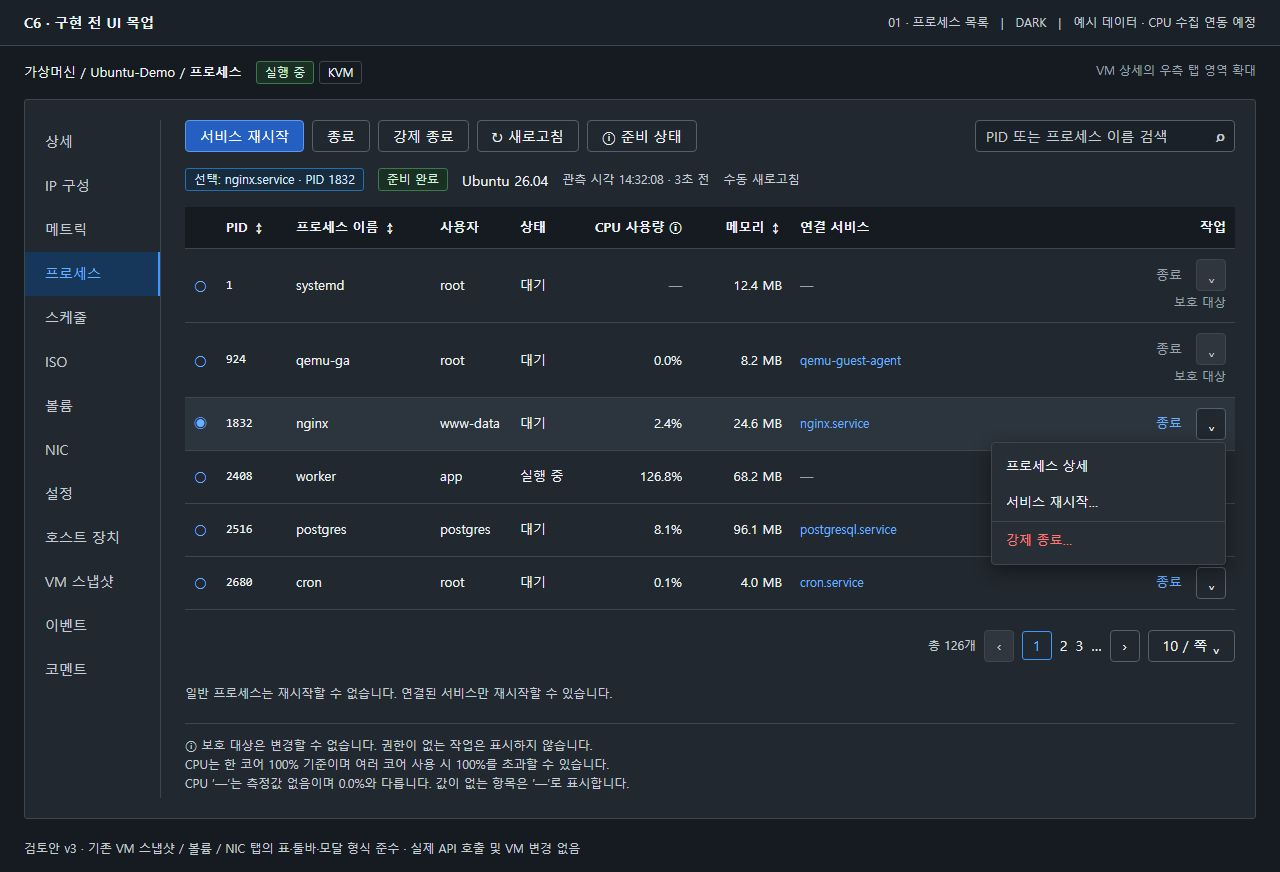
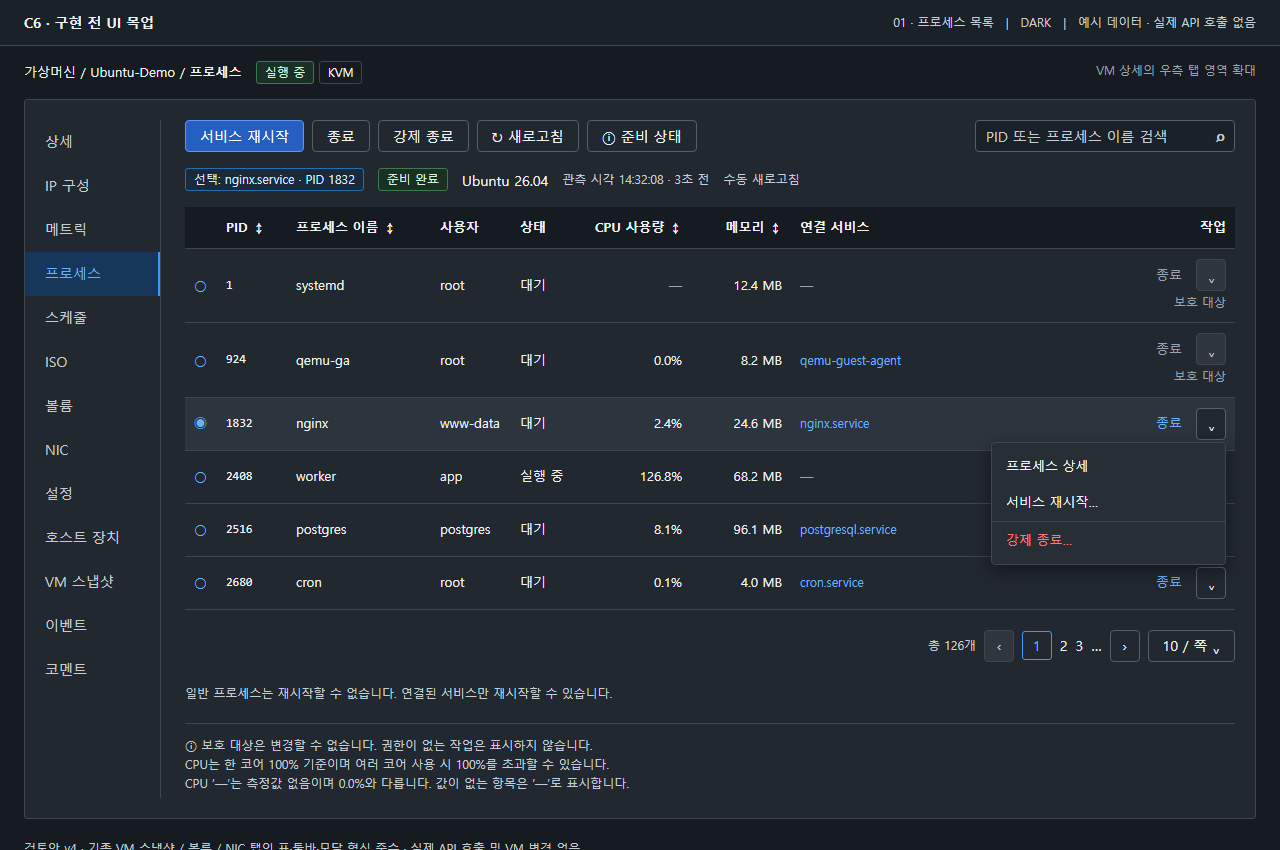
docs: CPU 정렬과 미측정 구분 목업 갱신

diff --git a/docs/design/vm-process-mockup/index.html b/docs/design/vm-process-mockup/index.html
@@ -21,7 +21,7 @@ under the License.
 *{box-sizing:border-box}::-webkit-scrollbar{display:none}body{margin:0;width:1280px;min-height:850px;background:var(--ui-bg-page);color:var(--ui-text-primary);font:14px/1.6 "Malgun Gothic","Noto Sans KR",Arial,sans-serif}button,input,select{font:inherit}button{cursor:pointer;border:1px solid var(--ui-border-strong);border-radius:4px;background:var(--ui-bg-surface);color:var(--ui-text-primary);height:32px;padding:0 14px;white-space:nowrap}button.primary{background:#0969da;border-color:#0969da;color:#fff}button.danger{background:#c62836;border-color:#c62836;color:white}.dark-mode button.primary{background:#245fc1;border-color:#6098f0}.dark-mode button.danger{background:#a62738;border-color:#ff8d99}button:disabled{cursor:not-allowed;background:var(--ui-bg-disabled);color:var(--ui-text-secondary);border-color:var(--ui-border)}.dark-mode button.primary:disabled,.dark-mode button.danger:disabled{background:var(--ui-bg-disabled);color:var(--ui-text-secondary);border-color:var(--ui-border)}button.link{border:0;color:var(--ui-link);padding:0 6px;background:transparent}button.link:disabled{color:var(--ui-text-muted)}button.icon{width:30px;padding:0}button:focus-visible,a:focus-visible{outline:2px solid var(--ui-focus);outline-offset:2px}a{color:var(--ui-link);text-decoration:none}.small{font-size:12px}.muted{color:var(--ui-text-muted)}.secondary{color:var(--ui-text-secondary)}.mono{font-family:Consolas,monospace;font-size:12px}.topnote{height:46px;background:var(--ui-bg-navigation);border-bottom:1px solid var(--ui-border);display:flex;align-items:center;justify-content:space-between;padding:0 24px;font-size:12px;color:var(--ui-text-secondary)}.topnote strong{font-size:14px;color:var(--ui-text-primary)}.breadcrumb{padding:15px 24px;font-size:13px;display:flex;justify-content:space-between}.sheet{position:relative;width:1232px;min-height:720px;margin:0 24px 20px;background:var(--ui-bg-surface);border:1px solid var(--ui-border);border-radius:3px;display:flex;padding:20px 20px 20px 0}.tabs{width:136px;flex:none;border-right:1px solid var(--ui-border);padding:0}.tabs div{height:44px;padding:10px 20px;color:var(--ui-text-secondary)}.tabs .active{color:var(--ui-link);background:var(--ui-bg-selected);border-right:2px solid var(--ui-focus)}.content{padding-left:24px;flex:1;min-width:0}.toolbar{display:flex;gap:8px;align-items:center;margin-bottom:16px}.search{margin-left:auto;height:32px;width:260px;border:1px solid var(--ui-border-strong);background:var(--ui-bg-input);color:var(--ui-text-secondary);border-radius:4px;display:flex;align-items:center;padding:0 10px;justify-content:space-between}.search span{color:var(--ui-text-secondary)}.statusline{display:flex;gap:14px;align-items:center;margin:0 0 16px;flex-wrap:wrap}.tag{display:inline-block;border:1px solid var(--ui-border);border-radius:3px;padding:1px 8px;font-size:12px;white-space:nowrap}.tag.ok{color:var(--ui-success-text);background:var(--ui-success-bg);border-color:var(--ui-success-border)}.tag.warn{color:var(--ui-warning-text);background:var(--ui-warning-bg);border-color:var(--ui-warning-border)}.tag.info{color:var(--ui-info-text);background:var(--ui-info-bg);border-color:var(--ui-info-border)}.alert{display:flex;gap:10px;padding:11px 14px;border:1px solid var(--ui-info-border);border-radius:4px;background:var(--ui-info-bg);color:var(--ui-info-text);margin-bottom:16px}.alert.warning{background:var(--ui-warning-bg);border-color:var(--ui-warning-border);color:var(--ui-warning-text)}.alert.error{background:var(--ui-error-bg);border-color:var(--ui-error-border);color:var(--ui-error-text)}.alert.success{background:var(--ui-success-bg);border-color:var(--ui-success-border);color:var(--ui-success-text)}.alert .symbol{font-size:17px;font-weight:bold;line-height:1.5}.alert strong{display:block;font-weight:600}.alert .tail{margin-left:auto;align-self:center}.alert p{margin:4px 0 0;font-size:13px}table{width:100%;border-collapse:collapse;font-size:13px}th{text-align:left;background:var(--ui-bg-page);font-weight:600;white-space:nowrap}th,td{padding:10px 9px;border-bottom:1px solid var(--ui-border);vertical-align:middle}td.name{font-weight:500}.selected td{background:var(--ui-bg-hover)}.sub{display:block;font-weight:400;font-size:12px;color:var(--ui-text-muted);margin-top:2px}.row-actions{position:relative;display:flex;gap:8px;align-items:center;justify-content:flex-end}.paging{display:flex;gap:8px;align-items:center;justify-content:flex-end;margin-top:20px}.paging .page{padding:2px 10px;border:1px solid var(--ui-focus);color:var(--ui-link);border-radius:3px}.footnote{margin-top:22px;color:var(--ui-text-secondary);font-size:12px}.legend{border-top:1px solid var(--ui-border);padding-top:12px;margin-top:20px;font-size:12px;color:var(--ui-text-secondary)}.menu{position:absolute;right:0;top:34px;text-align:left;width:235px;padding:5px 0;background:var(--ui-bg-elevated);border:1px solid var(--ui-border);border-radius:4px;box-shadow:0 6px 18px var(--ui-shadow);z-index:2}.menu div{padding:8px 14px}.menu .destructive{color:var(--ui-error-icon);border-top:1px solid var(--ui-border)}.menu .disabled{color:var(--ui-text-secondary);background:var(--ui-bg-disabled);font-size:13px}.menu small{display:block;font-size:12px}.shade{position:absolute;inset:46px 0 0;background:rgba(0,0,0,.48);display:flex;align-items:flex-start;justify-content:center;padding-top:75px;z-index:5}.modal{width:560px;border:1px solid var(--ui-border-strong);background:var(--ui-bg-elevated);border-radius:4px;box-shadow:0 16px 48px rgba(0,0,0,.25);overflow:hidden}.modal h2{font-size:16px;margin:0;padding:16px 24px;border-bottom:1px solid var(--ui-border);display:flex;justify-content:space-between}.modal h2 span{color:var(--ui-text-secondary);font-weight:400}.modal .body{padding:20px 24px}.description{border:1px solid var(--ui-border);margin-bottom:16px;border-radius:3px;font-size:13px}.description>div{display:grid;grid-template-columns:125px 1fr;border-bottom:1px solid var(--ui-border)}.description>div:last-child{border:0}.description dt{background:var(--ui-bg-page);padding:8px 12px;color:var(--ui-text-primary);border-right:1px solid var(--ui-border)}.description dd{margin:0;padding:8px 12px;background:var(--ui-bg-surface);color:var(--ui-text-secondary);overflow-wrap:anywhere}.modal .footer{border-top:1px solid var(--ui-border);padding:12px 20px;display:flex;justify-content:flex-end;gap:8px}.check{display:flex;gap:8px;align-items:flex-start;font-size:13px}.check span:first-child{color:var(--ui-link);font-size:17px;line-height:1.3}.empty{padding:65px 40px;text-align:center;border:1px solid var(--ui-border);background:var(--ui-bg-page);margin-top:18px}.empty h3{font-size:16px;margin:10px 0;color:var(--ui-text-primary)}.empty p{color:var(--ui-text-secondary);font-size:13px}.rpc{margin:14px 0;border:1px solid var(--ui-border)}.rpc td{padding:7px 12px}.steps{margin:20px 0;padding-left:24px;color:var(--ui-text-secondary)}.steps li{margin:10px 0}.preview-controls{padding:12px 24px;border-top:1px solid var(--ui-border)}.preview-controls a{display:inline-block;margin:4px 14px 4px 0}.capture .preview-controls{display:none}.footer-note{padding:0 24px 14px;color:var(--ui-text-secondary);font-size:12px}.state-title{margin:0 0 15px;font-size:15px}.operation{border:1px solid var(--ui-border);padding:14px;margin-bottom:18px;border-radius:4px}.operation-head{display:flex;align-items:center;justify-content:space-between;margin-bottom:10px}.service-chip{font-size:12px;color:var(--ui-link)}
 </style></head><body><div id="app"></div><script>
 const q=new URLSearchParams(location.search),state=q.get('state')||'list',dark=q.get('theme')==='dark';document.documentElement.classList.toggle('dark-mode',dark);document.body.classList.toggle('capture',q.has('capture'));
-const labels={list:'01 · 프로세스 목록',terminate:'02 · 정상 종료 확인',kill:'03 · 강제 종료 확인',restart:'04 · 서비스 재시작 확인',tools:'05 · Tools 설치 안내',disabled:'06 · Global 비활성',unknown:'07 · 결과 미확정',stale:'08 · 오래된 목록',windows:'09 · Windows 지원 범위'};
+const labels={list:'01 · 프로세스 목록',terminate:'02 · 정상 종료 확인',kill:'03 · 강제 종료 확인',restart:'04 · 서비스 재시작 확인',tools:'05 · Tools 설치 안내',disabled:'06 · Global 비활성',unknown:'07 · 결과 미확정',stale:'08 · 오래된 목록',windows:'09 · Windows 지원 범위','cpu-sort':'10 · CPU 높은 순 정렬'};
 const btn=(text,cls='',disabled=false)=>`<button class="${cls}" ${disabled?'disabled':''}>${text}</button>`;
 const alert=(title,desc='',type='',action='')=>`<div class="alert ${type}"><span class="symbol">${type==='warning'?'⚠':type==='error'?'!':'ⓘ'}</span><div><strong>${title}</strong>${desc?'<p>'+desc+'</p>':''}</div>${action?'<div class="tail">'+action+'</div>':''}</div>`;
 const desc=rows=>'<dl class="description">'+rows.map(([k,v])=>`<div><dt>${k}</dt><dd>${v}</dd></div>`).join('')+'</dl>';
@@ -29,7 +29,11 @@ const iswin=state==='windows';const expired=state==='stale',busy=state==='unknow
 const nav=['상세','IP 구성','메트릭','프로세스','스케줄','ISO','볼륨','NIC','설정','호스트 장치','VM 스냅샷','이벤트','코멘트'];
 function inventory(){
  const rows=iswin?[[4,'System','SYSTEM','실행 중','—','—','보호 대상'],[864,'svchost.exe','SYSTEM','실행 중','42.6 MB','W32Time','Windows 미지원'],[2812,'DemoWorker.exe','demo','실행 중','18.4 MB','—','Windows 미지원'],[3940,'DemoService.exe','SYSTEM','실행 중','26.8 MB','DemoService','Windows 미지원']]:[[1,'systemd','root','대기','12.4 MB','—','보호 대상'],[924,'qemu-ga','root','대기','8.2 MB','qemu-guest-agent','보호 대상'],[1832,'nginx','www-data','대기','24.6 MB','nginx.service',''],[2408,'worker','app','실행 중','68.2 MB','—',''],[2516,'postgres','postgres','대기','96.1 MB','postgresql.service',''],[2680,'cron','root','대기','4.0 MB','cron.service','']];
- return `<table><thead><tr><th style="width:32px" aria-label="선택"></th><th style="width:70px">PID ↕</th><th style="width:144px">프로세스 이름 ↕</th><th style="width:80px">사용자</th><th style="width:75px">상태</th><th style="width:105px;text-align:right" title="한 코어 100% 기준. 여러 코어 사용 시 100%를 초과할 수 있습니다.">CPU 사용량 ⓘ</th><th style="width:100px;text-align:right">메모리 ↕</th><th style="width:160px">연결 서비스</th><th style="text-align:right">작업</th></tr></thead><tbody>`+rows.map((r,i)=>`<tr class="${i===selectedIndex?'selected':''}"><td style="color:var(--ui-link)">${i===selectedIndex?'◉':'○'}</td><td class="mono">${r[0]}</td><td class="name">${r[1]}</td><td>${r[2]}</td><td>${r[3]}</td><td style="text-align:right;font-variant-numeric:tabular-nums">${(iswin?[null,0,38.4,1.2]:[null,0,2.4,126.8,8.1,0.1])[i]===null?'<span class="muted">—</span>':(iswin?[null,0,38.4,1.2]:[null,0,2.4,126.8,8.1,0.1])[i].toFixed(1)+'%'}</td><td style="text-align:right">${r[4]}</td><td><span class="${r[5]==='—'?'muted':'service-chip'}">${r[5]}</span></td><td><div class="row-actions">${btn('종료','link',!!r[6]||expired||busy)}${btn('⌄','icon',r[6]==='보호 대상'||expired||busy)}${i===2&&['list','windows'].includes(state)?`<div class="menu"><div>프로세스 상세</div>${iswin?'<div class="disabled">서비스 재시작<small>연결된 서비스가 없는 프로세스입니다.</small></div>':'<div>서비스 재시작…</div>'}<div class="destructive">강제 종료…</div></div>`:''}</div>${r[6]?'<span class="sub" style="text-align:right">'+r[6]+'</span>':''}</td></tr>`).join('')+'</tbody></table>'+`<div class="paging"><span class="small secondary">총 ${iswin?46:126}개</span>${btn('‹','icon',true)}<span class="page">1</span><span>2</span><span>3</span><span>…</span>${btn('›','icon')}${btn('10 / 쪽 ⌄')}</div>`;
+ const cpuValues=iswin?[null,0,38.4,1.2]:[null,0,2.4,126.8,8.1,0.1];
+ const paired=rows.map((row,index)=>({row,cpu:cpuValues[index]}));
+ if(state==='cpu-sort')paired.sort((a,b)=>a.cpu===null?1:b.cpu===null?-1:b.cpu-a.cpu||a.row[0]-b.row[0]);
+ const sortedRows=paired.map(item=>item.row),sortedCpu=paired.map(item=>item.cpu);
+ return `<table><thead><tr><th style="width:32px" aria-label="선택"></th><th style="width:70px">PID ↕</th><th style="width:144px">프로세스 이름 ↕</th><th style="width:80px">사용자</th><th style="width:75px">상태</th><th style="width:105px;text-align:right" title="한 코어 100% 기준. 여러 코어 사용 시 100%를 초과할 수 있습니다.">${state==='cpu-sort'?'CPU 사용량 ▼':'CPU 사용량 ↕'}</th><th style="width:100px;text-align:right">메모리 ↕</th><th style="width:160px">연결 서비스</th><th style="text-align:right">작업</th></tr></thead><tbody>`+sortedRows.map((r,i)=>`<tr class="${i===selectedIndex?'selected':''}"><td style="color:var(--ui-link)">${i===selectedIndex?'◉':'○'}</td><td class="mono">${r[0]}</td><td class="name">${r[1]}</td><td>${r[2]}</td><td>${r[3]}</td><td style="text-align:right;font-variant-numeric:tabular-nums">${sortedCpu[i]===null?'<span class="muted">—</span>':sortedCpu[i].toFixed(1)+'%'}</td><td style="text-align:right">${r[4]}</td><td><span class="${r[5]==='—'?'muted':'service-chip'}">${r[5]}</span></td><td><div class="row-actions">${btn('종료','link',!!r[6]||expired||busy)}${btn('⌄','icon',r[6]==='보호 대상'||expired||busy)}${i===2&&['list','windows'].includes(state)?`<div class="menu"><div>프로세스 상세</div>${iswin?'<div class="disabled">서비스 재시작<small>연결된 서비스가 없는 프로세스입니다.</small></div>':'<div>서비스 재시작…</div>'}<div class="destructive">강제 종료…</div></div>`:''}</div>${r[6]?'<span class="sub" style="text-align:right">'+r[6]+'</span>':''}</td></tr>`).join('')+'</tbody></table>'+`<div class="paging"><span class="small secondary">총 ${iswin?46:126}개</span>${btn('‹','icon',true)}<span class="page">1</span><span>2</span><span>3</span><span>…</span>${btn('›','icon')}${btn('10 / 쪽 ⌄')}</div>`;
 }
 function content(){
  if(disabled)return '<h3 class="state-title">프로세스 관리</h3>'+btn('서비스 재시작','primary',true)+'<p class="small secondary">기능 활성화 및 대상 선택 후 사용할 수 있습니다.</p>'+alert('프로세스 관리 기능이 비활성화되어 있습니다.','관리자가 Global 설정에서 명시적으로 활성화한 후 사용할 수 있습니다.')+desc([['Global 설정','<span class="mono">vm.process.management.enabled</span>'],['현재 값','false · 기본값'],['사용 범위','활성화 후에도 VM 접근 권한과 작업별 권한을 확인합니다.']])+btn('Global 설정 열기')+'<span class="small secondary" style="margin-left:12px">관리자에게만 표시</span><div class="empty"><div style="font-size:30px">⊘</div><h3>활성화 전에는 프로세스를 조회하지 않습니다.</h3><p>VM 내부 조회와 변경 요청이 모두 차단됩니다.</p></div>';
@@ -37,6 +41,7 @@ function content(){
  let out=`<div class="toolbar">${btn(iswin||selectedIndex===3?'강제 종료':'서비스 재시작','primary',busy||expired)}${!iswin?btn('종료','',busy||expired)+btn(selectedIndex===3?'서비스 재시작':'강제 종료','',busy||expired||selectedIndex===3):''}${btn('↻ 새로고침','',busy)}${btn('ⓘ 준비 상태')}<div class="search"><span>PID 또는 프로세스 이름 검색</span><b>⌕</b></div></div><div class="statusline"><span class="tag info">선택: ${iswin?'DemoWorker.exe · PID 2812':selectedIndex===3?'worker · PID 2408':'nginx.service · PID 1832'}</span><span class="tag ok">준비 완료</span><span>${iswin?'Windows Server 2025':'Ubuntu 26.04'}</span><span class="secondary small">관측 시각 14:32:08 · ${expired?'24초 전':'3초 전'}</span>${expired?'<span class="tag warn">오래된 목록</span>':'<span class="small secondary">수동 새로고침</span>'}</div>`;
  if(expired)out+=alert('목록이 오래되어 변경 작업을 사용할 수 없습니다.','10초가 지난 목록입니다. 새로고침 후 대상을 다시 선택하세요.','warning',btn('새로고침'));
  if(busy)out+=alert('작업 결과를 아직 확인할 수 없습니다.','같은 작업을 다시 실행하지 않습니다. 결과를 확인하는 동안 이 VM의 변경 작업은 잠깁니다.','warning')+`<div class="operation"><div class="operation-head"><strong>worker · PID 2408 · 강제 종료</strong><span class="tag warn">결과 미확정 · UNKNOWN</span></div><div class="small secondary">요청 시각 14:31:52 · 응답을 받지 못함 · 실행되었을 수 있음</div><div class="small secondary" style="margin:8px 0 12px">작업 ID <span class="mono">op-demo-7c42…90e1</span>　<a href="#">자세히 보기</a></div>${btn('↻ 작업 결과 확인')} <span class="small secondary">조회만 수행하며 종료 명령은 재전송하지 않습니다.</span></div>`;
+ if(state==='cpu-sort')out+=alert('CPU 사용량 높은 순으로 정렬했습니다.','미측정 항목은 맨 뒤에 표시하고 같은 값은 PID 순서로 표시합니다.');
  if(iswin)out+=alert('Windows에서는 정상 종료를 지원하지 않습니다.','강제 종료와 연결된 서비스 재시작을 사용할 수 있습니다. 일반 프로세스 자체의 재시작은 지원하지 않습니다.');
  out+=inventory();
  out+=`<p class="footnote">${busy?'작업 완료가 확인되면 목록을 새로고침합니다.':'일반 프로세스는 재시작할 수 없습니다. 연결된 서비스만 재시작할 수 있습니다.'}</p><div class="legend">ⓘ 보호 대상은 변경할 수 없습니다. 권한이 없는 작업은 표시하지 않습니다.<br>CPU는 한 코어 100% 기준이며 여러 코어 사용 시 100%를 초과할 수 있습니다.<br>CPU ‘—’는 측정값 없음이며 0.0%와 다릅니다. 값이 없는 항목은 ‘—’로 표시합니다.</div>`;
@@ -49,5 +54,5 @@ function modal(){if(!['terminate','kill','restart'].includes(state))return '';
  const warning=kill?['저장하지 않은 작업이 손실될 수 있습니다.','프로세스에 정리 시간을 주지 않고 종료합니다.']:restart?['서비스 이용이 일시적으로 중단됩니다.','연결된 서비스만 재시작합니다. 의존 서비스와 활성 연결에도 영향이 있을 수 있습니다.']:['프로세스에 정상 종료를 요청합니다.','종료가 확인되지 않아도 자동으로 강제 종료하지 않습니다.'];
  return `<div class="shade"><section class="modal" role="dialog" aria-label="${title}"><h2>${title}<span>×</span></h2><div class="body">${desc(rows)}${alert(...warning,kill?'error':'warning')}<div class="small secondary" style="margin-bottom:14px">관측 시각 14:32:08 · 3초 전<br>실행 전에 대상 신원과 목록 유효 시간을 다시 확인합니다.</div>${kill?'<div class="check"><span>☐</span><span>데이터 손실 가능성을 확인했으며 강제 종료에 동의합니다.</span></div>':''}</div><div class="footer">${btn('취소')}${btn(kill?'강제 종료':restart?'서비스 재시작':'종료',kill?'danger':'primary',kill)}</div></section></div>`;
 }
-document.querySelector('#app').innerHTML=`<div class="topnote"><strong>C6 · 구현 전 UI 목업</strong><span>${labels[state]}　|　${dark?'DARK':'LIGHT'}　|　예시 데이터 · CPU 수집 연동 예정</span></div><div class="breadcrumb"><span>가상머신 / ${vm} / <b>프로세스</b> <span class="tag ok" style="margin-left:10px">실행 중</span> <span class="tag">KVM</span></span><span class="muted small">VM 상세의 우측 탭 영역 확대</span></div><section class="sheet"><nav class="tabs">${nav.map(n=>'<div class="'+(n==='프로세스'?'active':'')+'">'+n+'</div>').join('')}</nav><main class="content">${content()}</main></section><div class="footer-note">검토안 v3 · 기존 VM 스냅샷 / 볼륨 / NIC 탭의 표·툴바·모달 형식 준수 · 실제 API 호출 및 VM 변경 없음</div>${modal()}<div class="preview-controls"><b>검토 화면</b><br>${Object.entries(labels).map(([k,v])=>'<a href="?state='+k+'&theme='+(dark?'dark':'light')+'">'+v+'</a>').join('')}<br><a href="?state=${state}&theme=${dark?'light':'dark'}">${dark?'라이트':'다크'} 모드로 보기</a></div>`;
+document.querySelector('#app').innerHTML=`<div class="topnote"><strong>C6 · 구현 전 UI 목업</strong><span>${labels[state]}　|　${dark?'DARK':'LIGHT'}　|　예시 데이터 · 실제 API 호출 없음</span></div><div class="breadcrumb"><span>가상머신 / ${vm} / <b>프로세스</b> <span class="tag ok" style="margin-left:10px">실행 중</span> <span class="tag">KVM</span></span><span class="muted small">VM 상세의 우측 탭 영역 확대</span></div><section class="sheet"><nav class="tabs">${nav.map(n=>'<div class="'+(n==='프로세스'?'active':'')+'">'+n+'</div>').join('')}</nav><main class="content">${content()}</main></section><div class="footer-note">검토안 v4 · 기존 VM 스냅샷 / 볼륨 / NIC 탭의 표·툴바·모달 형식 준수 · 실제 API 호출 및 VM 변경 없음</div>${modal()}<div class="preview-controls"><b>검토 화면</b><br>${Object.entries(labels).map(([k,v])=>'<a href="?state='+k+'&theme='+(dark?'dark':'light')+'">'+v+'</a>').join('')}<br><a href="?state=${state}&theme=${dark?'light':'dark'}">${dark?'라이트':'다크'} 모드로 보기</a></div>`;
 </script></body></html>

diff --git a/docs/design/vm-process-mockup/README.ko.md b/docs/design/vm-process-mockup/README.ko.md
@@ -17,7 +17,7 @@ specific language governing permissions and limitations
 under the License.
  -->
 
-# C6 프로세스 탭 — 구현 전 UI 목업 v3
+# C6 프로세스 탭 — 구현 전 UI 목업 v4
 
 검토 이슈: https://github.com/ablecloud-team/ablestack-cloud/issues/1176
 
@@ -150,7 +150,7 @@ under the License.
 ## 재현
 
 이 디렉터리를 정적 HTTP 서버로 열고 `index.html?state=list&theme=dark`로 접속합니다.
-`state`는 list/terminate/kill/restart/tools/disabled/unknown/stale/windows,
+`state`는 list/terminate/kill/restart/tools/disabled/unknown/stale/windows/cpu-sort,
 `theme`은 light/dark입니다. 하단 링크는 목업 화면 전환용이며 작업 버튼은 실제 동작하지 않습니다.
 `&capture=1`은 화면 전환용 링크를 숨깁니다.
 
@@ -160,12 +160,20 @@ under the License.
 
 사용자 검토 반영: 선두 파란 버튼을 핵심 변경 액션으로 전환하고 프로세스 탭을 네 번째로 이동했습니다. 준비 미완료/Global 비활성/UNKNOWN/만료 상태에서는 핵심 액션을 차단하며 보조 확인 기능을 파란 주 버튼으로 승격하지 않습니다.
 
-## v3 — CPU 사용량 검토 반영
+## v4 — CPU 사용량·정렬 검토 반영
 
-메모리 앞에 CPU 사용량 열을 추가했습니다. 소수점 한 자리 %와 오른쪽 정렬을 사용하고 null은 ‘—’, 실제 0은 ‘0.0%’로 구분합니다. 한 코어 100% 기준이므로 여러 코어 사용 시 100%를 초과할 수 있습니다. CPU 열에는 현재 미지원인 정렬 아이콘을 표시하지 않았습니다.
+메모리 앞에 CPU 사용량 열을 배치했습니다. 소수점 한 자리 %와 오른쪽 정렬을 사용하고 미측정은 ‘—’, 실제 0은 ‘0.0%’로 구분합니다. 한 코어 100% 기준이므로 여러 코어 사용 시 100%를 초과할 수 있습니다. CPU 열의 정렬 동작을 추가했으며 높은 순으로 볼 때 미측정 값은 마지막에, 같은 값은 PID 순서로 표시합니다.
 
-**이미지 CPU 수치는 표시 형식 검토용 예시이며 현재 실행 결과가 아닙니다.** 현재 qemu Linux `lib/process/process_list_linux.py`는 `cpuPercent: None`, Windows `lib/process/ProcessList.ps1`은 `cpuPercent=$null`을 반환합니다. 계약 schema에는 nullable number 필드가 있지만 실제 샘플링은 미구현입니다. Cloud `VmProcessSnapshotServiceImpl.page`의 정렬 허용 값도 pid/name/memoryBytes뿐입니다.
+라이트·다크의 기존 18개 화면을 갱신하고 CPU 높은 순 정렬 화면 2개를 추가했습니다. 이미지는 표시 형식 검토용 예시 데이터이며 실제 API 호출이나 VM 변경을 수행하지 않습니다.
 
-C1 계약 기준: 두 sample 사이 프로세스 CPU time / wall interval ×100, Linux/Windows 동일 의미. 최초 sample, 재부팅, 카운터 감소, 관측 누락은 null입니다. 실제 CPU 수치를 제공하려면 qemu 샘플링과 CPU 정렬의 Cloud 연동/테스트가 선행되어야 합니다. 수집 연동 전 실제 UI는 CPU를 ‘—’로 표시해야 하며 null을 0으로 바꾸면 안 됩니다.
+백엔드 선행 작업: [qemu #75](https://github.com/ablecloud-team/ablestack-qemu-exec-tools/issues/75), [Cloud #1183](https://github.com/ablecloud-team/ablestack-cloud/issues/1183).
 
-이번 변경은 목업/검토 문서뿐이며 CPU 수집 코드나 API는 수정하지 않았습니다.
+### 10. CPU 높은 순 정렬
+
+라이트
+
+![CPU 높은 순 정렬 라이트](images/10-cpu-sort-light.jpg)
+
+다크
+
+![CPU 높은 순 정렬 다크](images/10-cpu-sort-dark.jpg)
